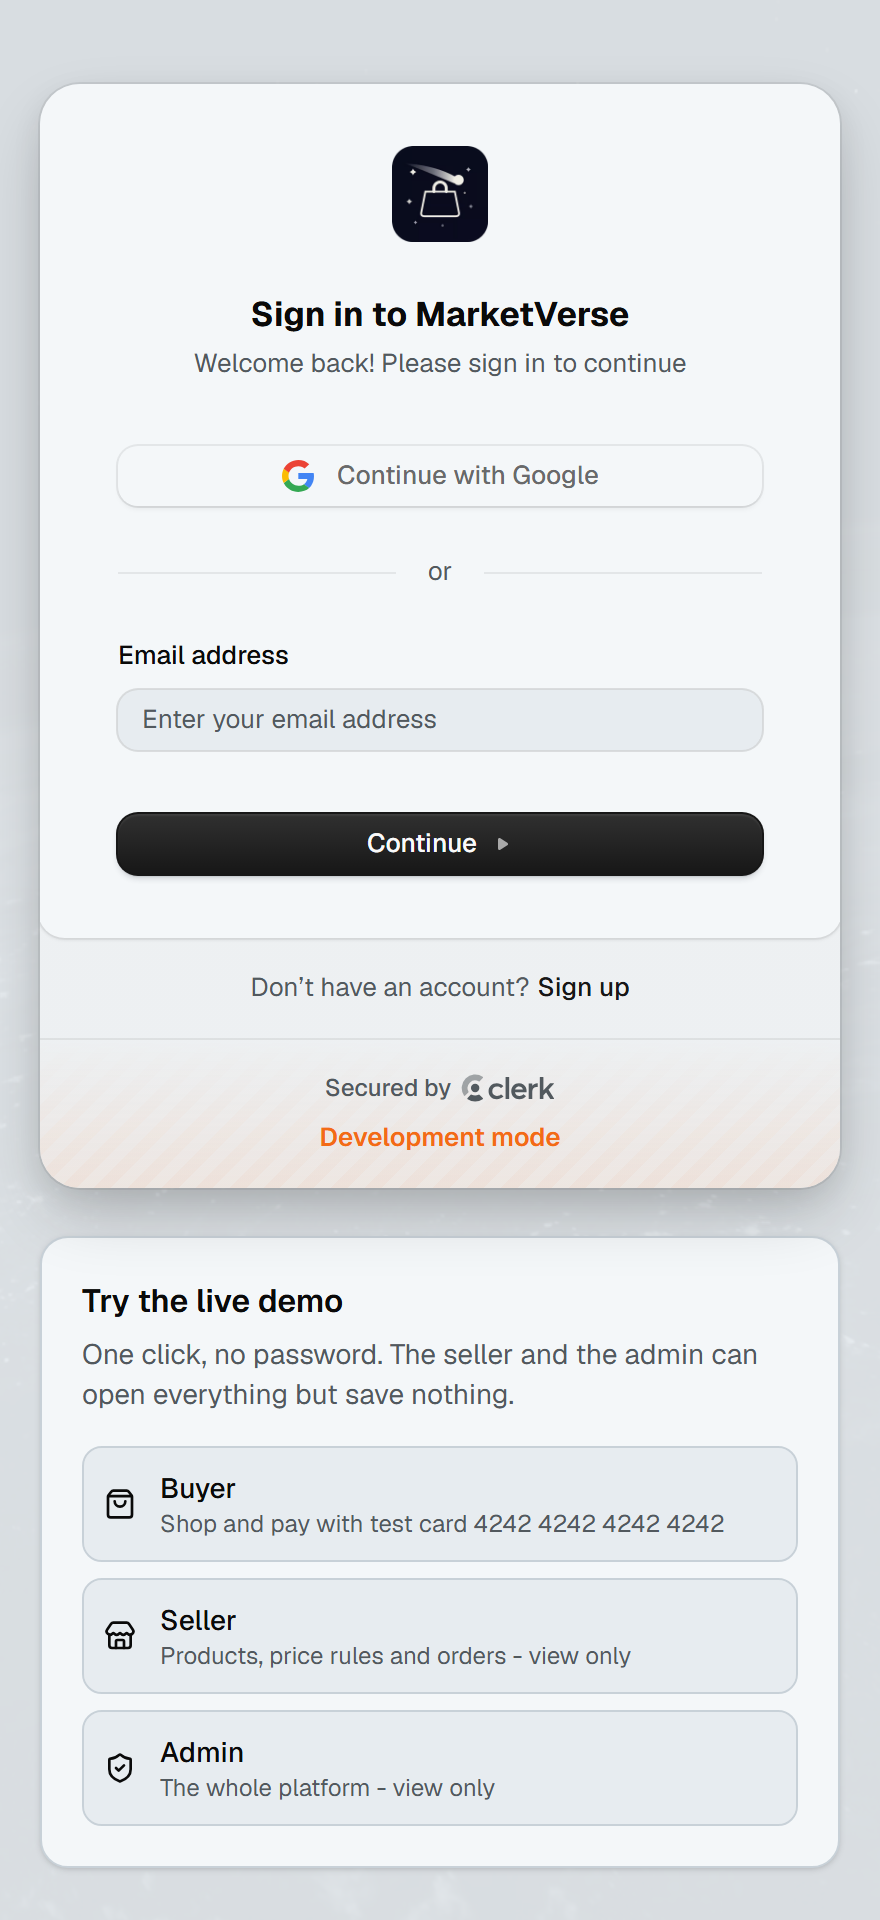
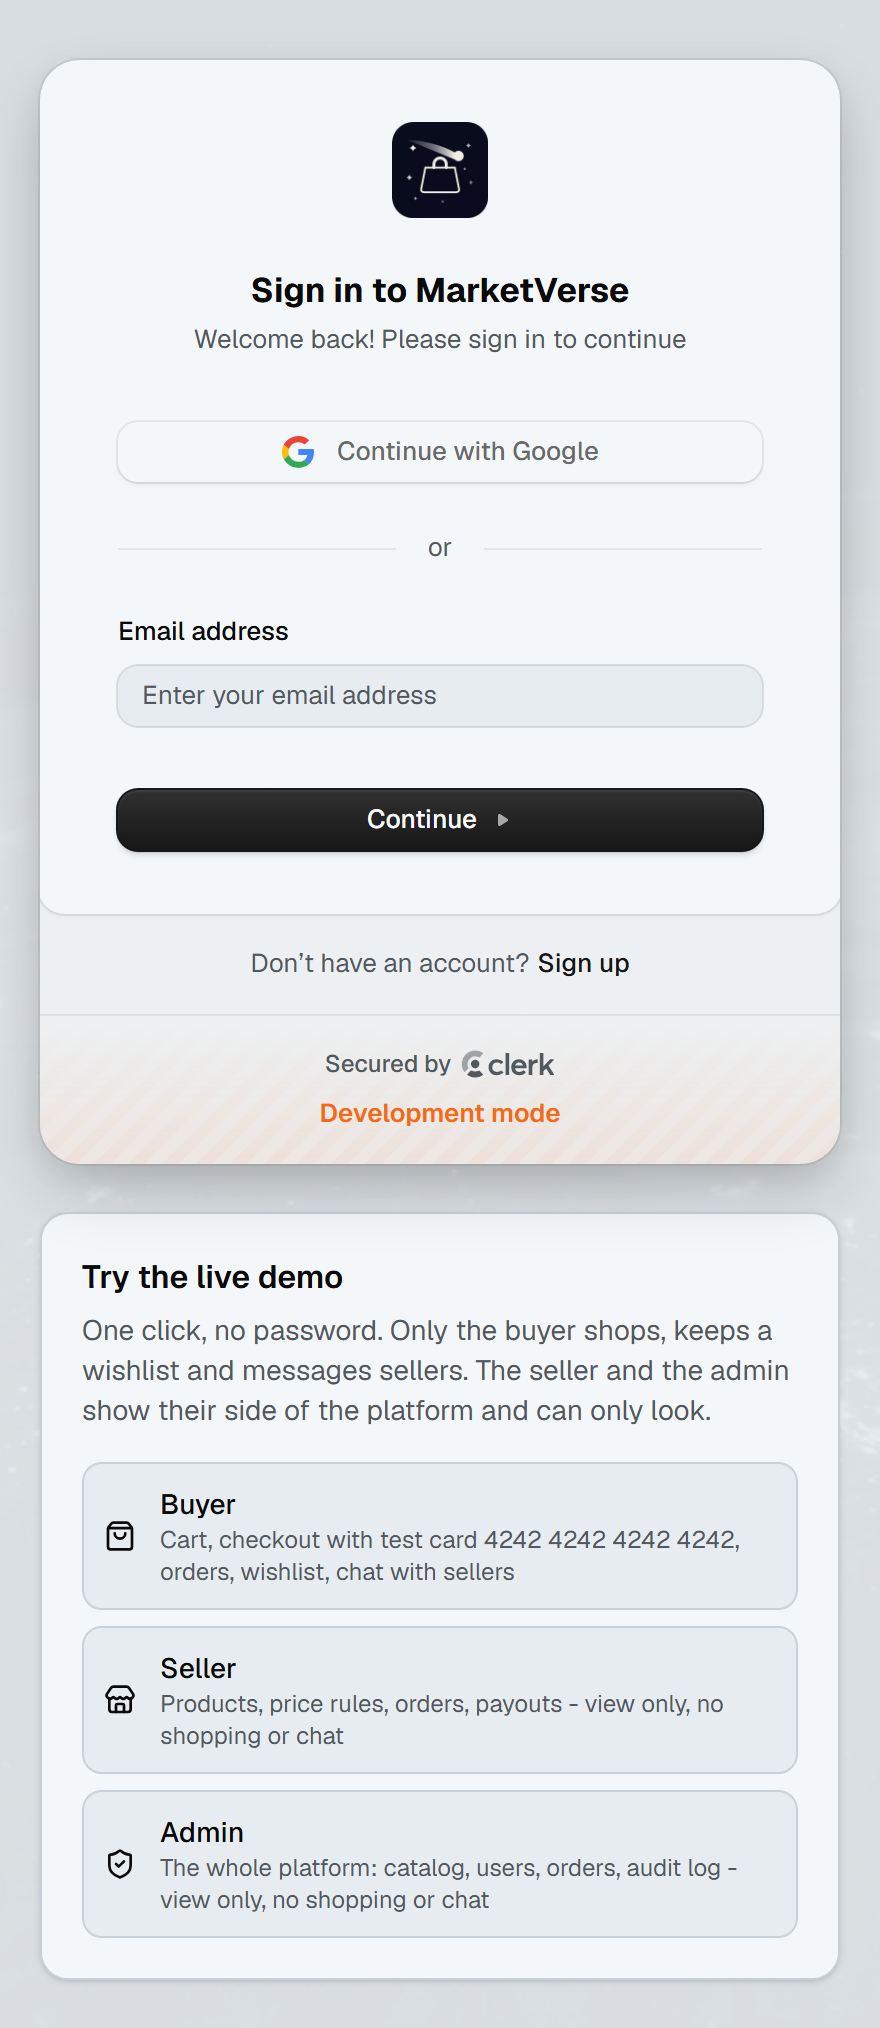
demo roles say what they cannot do, image counter in the gallery shots

diff --git a/index.html b/index.html
@@ -63,15 +63,15 @@
             <div class="try-roles">
               <a class="try-role try-role-main" href="https://marketverseapp.com/api/demo/sign-in?as=buyer" target="_blank" rel="noopener">
                 <span class="try-role-name">Buyer <span class="try-arrow" aria-hidden="true">→</span></span>
-                <span class="try-role-hint">Your own fresh account: shop, chat with a seller, pay with test card 4242&nbsp;4242&nbsp;4242&nbsp;4242</span>
+                <span class="try-role-hint">Your own fresh account: shop, keep a wishlist, chat with a seller, pay with test card 4242&nbsp;4242&nbsp;4242&nbsp;4242</span>
               </a>
               <a class="try-role" href="https://marketverseapp.com/api/demo/sign-in?as=seller" target="_blank" rel="noopener">
                 <span class="try-role-name">Seller <span class="try-arrow" aria-hidden="true">→</span></span>
-                <span class="try-role-hint">A 94-product shop: products, price calendar, orders, payouts - view only</span>
+                <span class="try-role-hint">A 94-product shop: products, price calendar, orders, payouts - view only, no shopping or chat</span>
               </a>
               <a class="try-role" href="https://marketverseapp.com/api/demo/sign-in?as=admin" target="_blank" rel="noopener">
                 <span class="try-role-name">Admin <span class="try-arrow" aria-hidden="true">→</span></span>
-                <span class="try-role-hint">The whole platform: catalog, markets, users, moderation, audit log - view only</span>
+                <span class="try-role-hint">The whole platform: catalog, markets, users, moderation, audit log - view only, no shopping or chat</span>
               </a>
             </div>
             <p class="try-note">
@@ -304,7 +304,9 @@
             <code>4242 4242 4242 4242</code> or cash on delivery. The <strong>seller</strong> (a
             94-product shop) and the <strong>admin</strong> open every screen and form, but the server
             refuses their saves before any side effect runs - no Stripe refund, no S3 upload, no
-            email - and masks other people's email addresses before they leave the server.
+            email - and masks other people's email addresses before they leave the server. They
+            are one account shared by every visitor, so they also get none of the buyer's actions:
+            no cart, wishlist, checkout or chat, and the page says so where the button would be.
           </p>
           <div class="demo-links">
             <a class="btn btn-primary" href="https://marketverseapp.com/api/demo/sign-in?as=buyer" target="_blank" rel="noopener">Buyer</a>
@@ -724,7 +726,10 @@
               A review after the first real visitors found one more way in: the auth provider's own profile screen
               let anyone make their own address primary, and read-only was keyed on that address. A
               demo account's stored email is now pinned in the database, and every demo sign-in puts
-              the account back the way the next visitor needs it.
+              the account back the way the next visitor needs it. A later pass closed the chat: the
+              shared seller and admin get no chat token at all, conversations are opened only by the
+              marketplace server (buyer to the seller of a product), and the messaging service now
+              refuses a message, a reaction or an attachment from anyone outside the conversation.
             </p>
           </article>
         </div>
